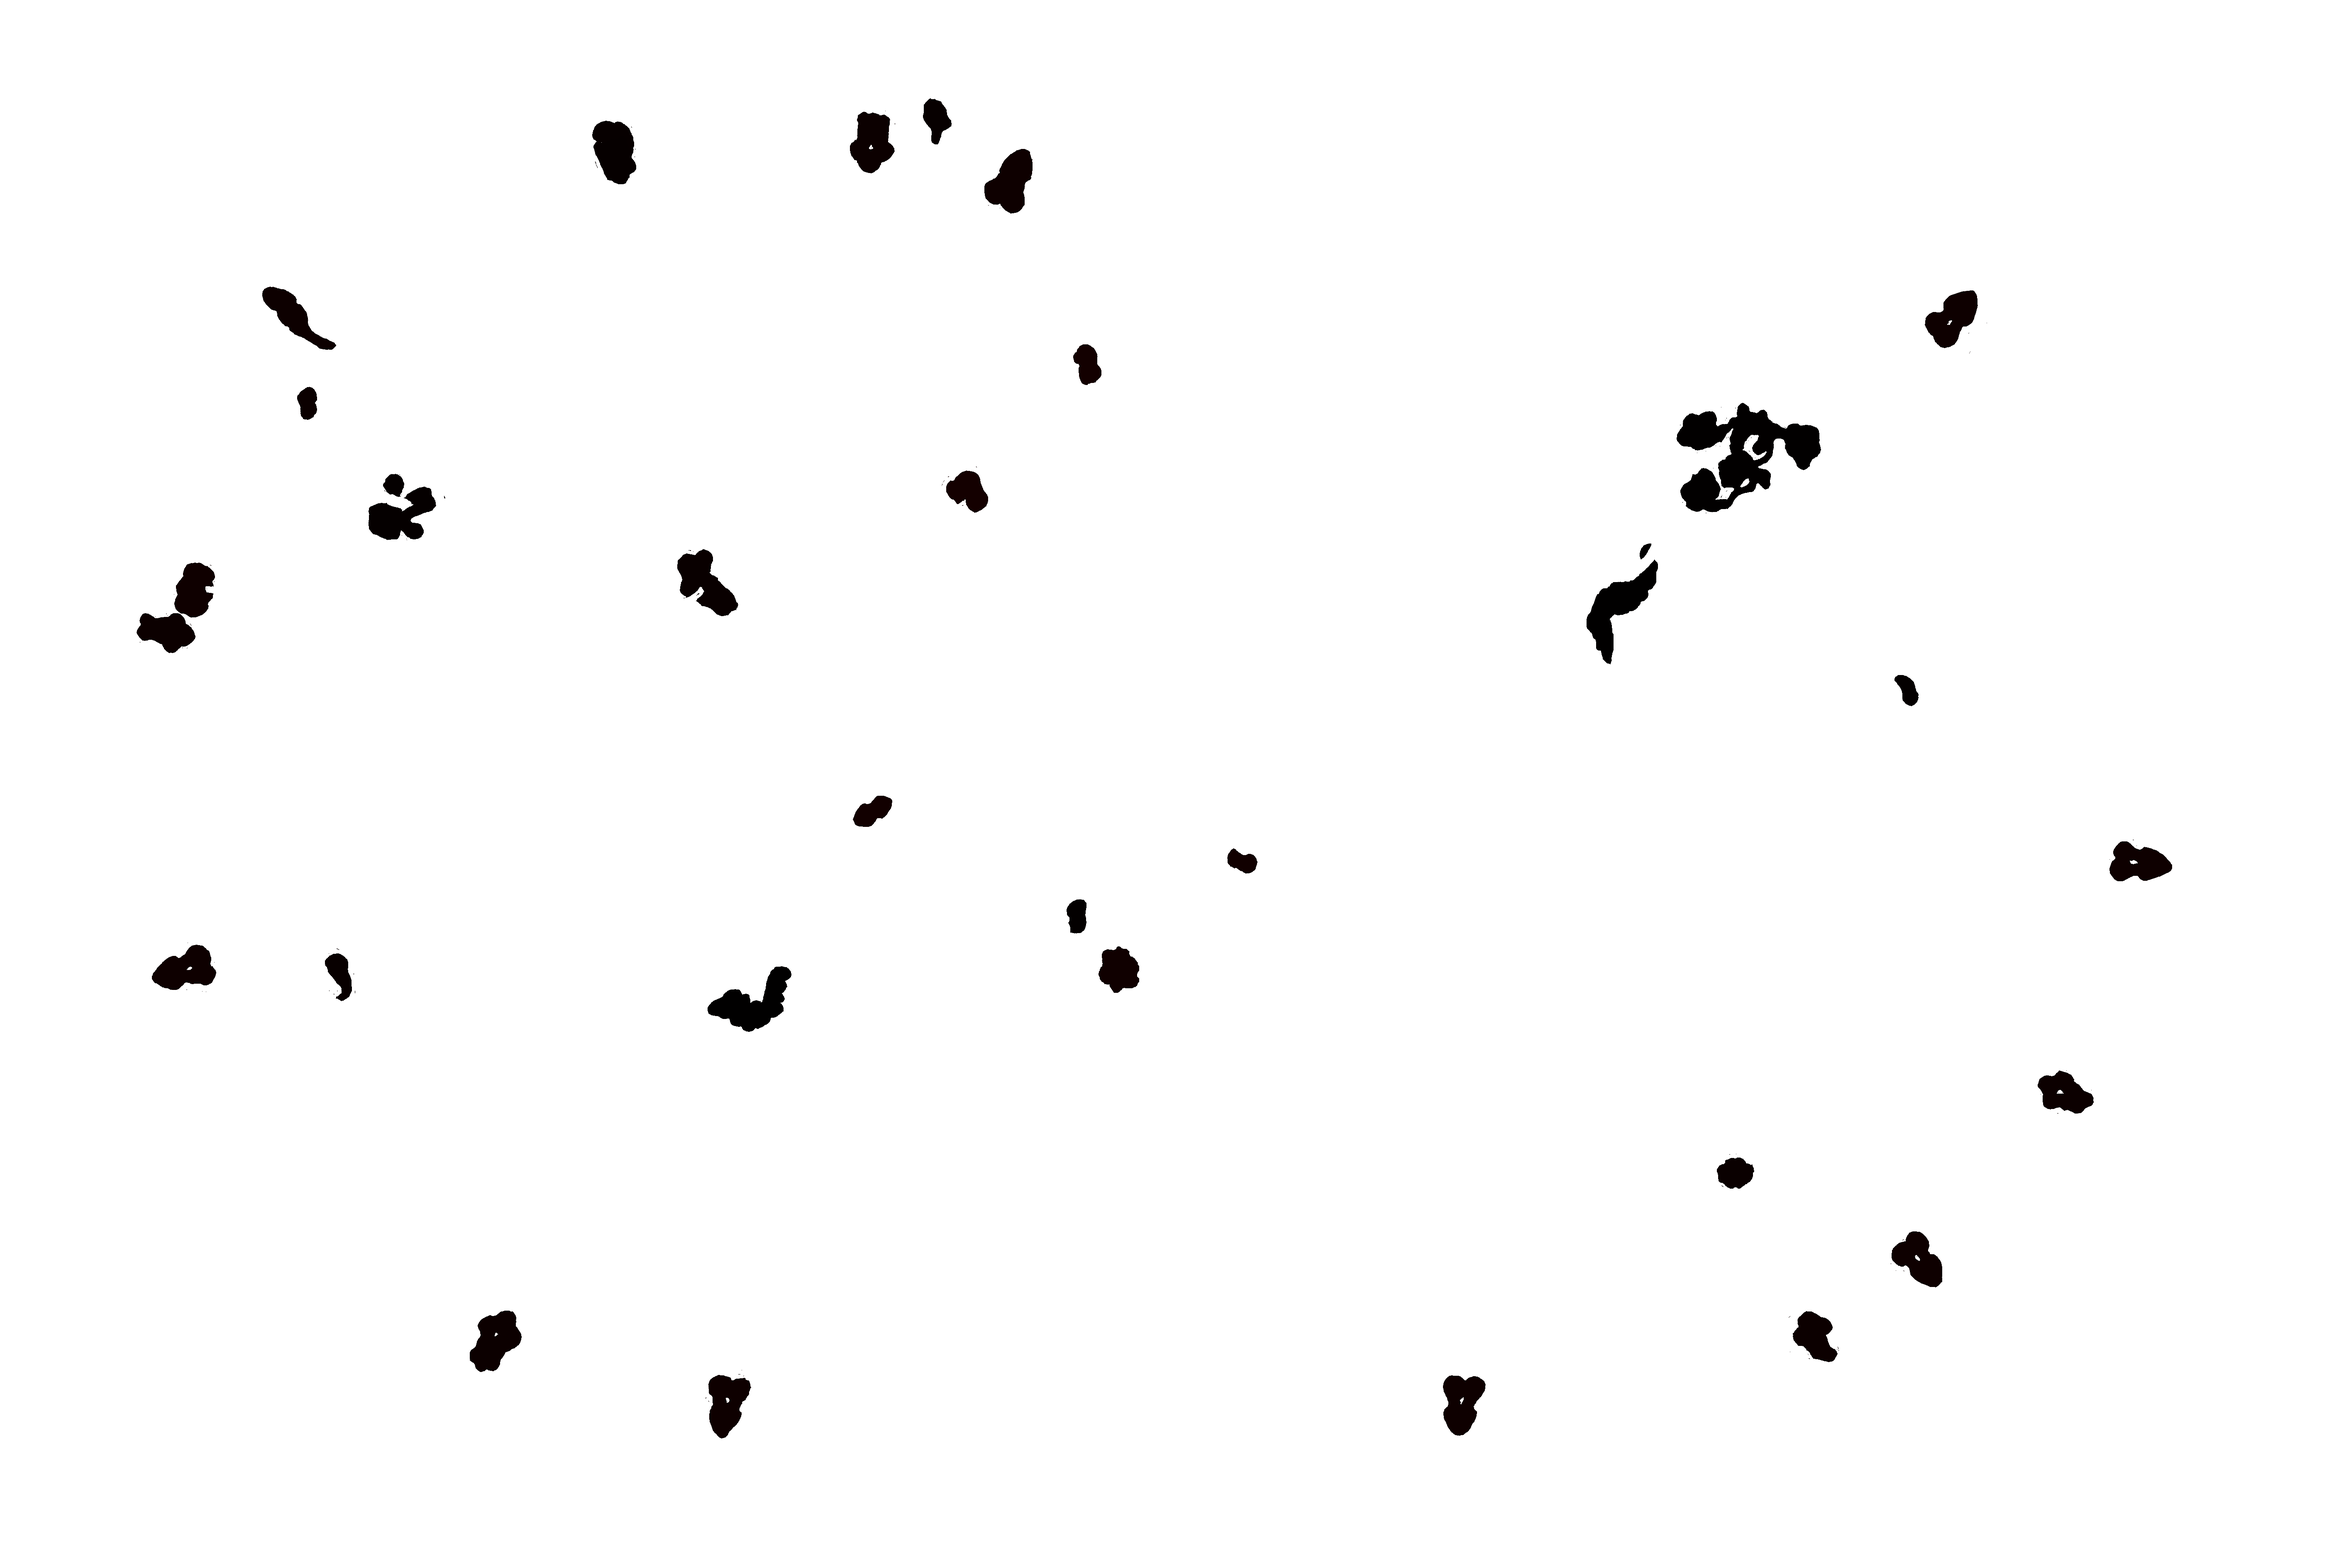
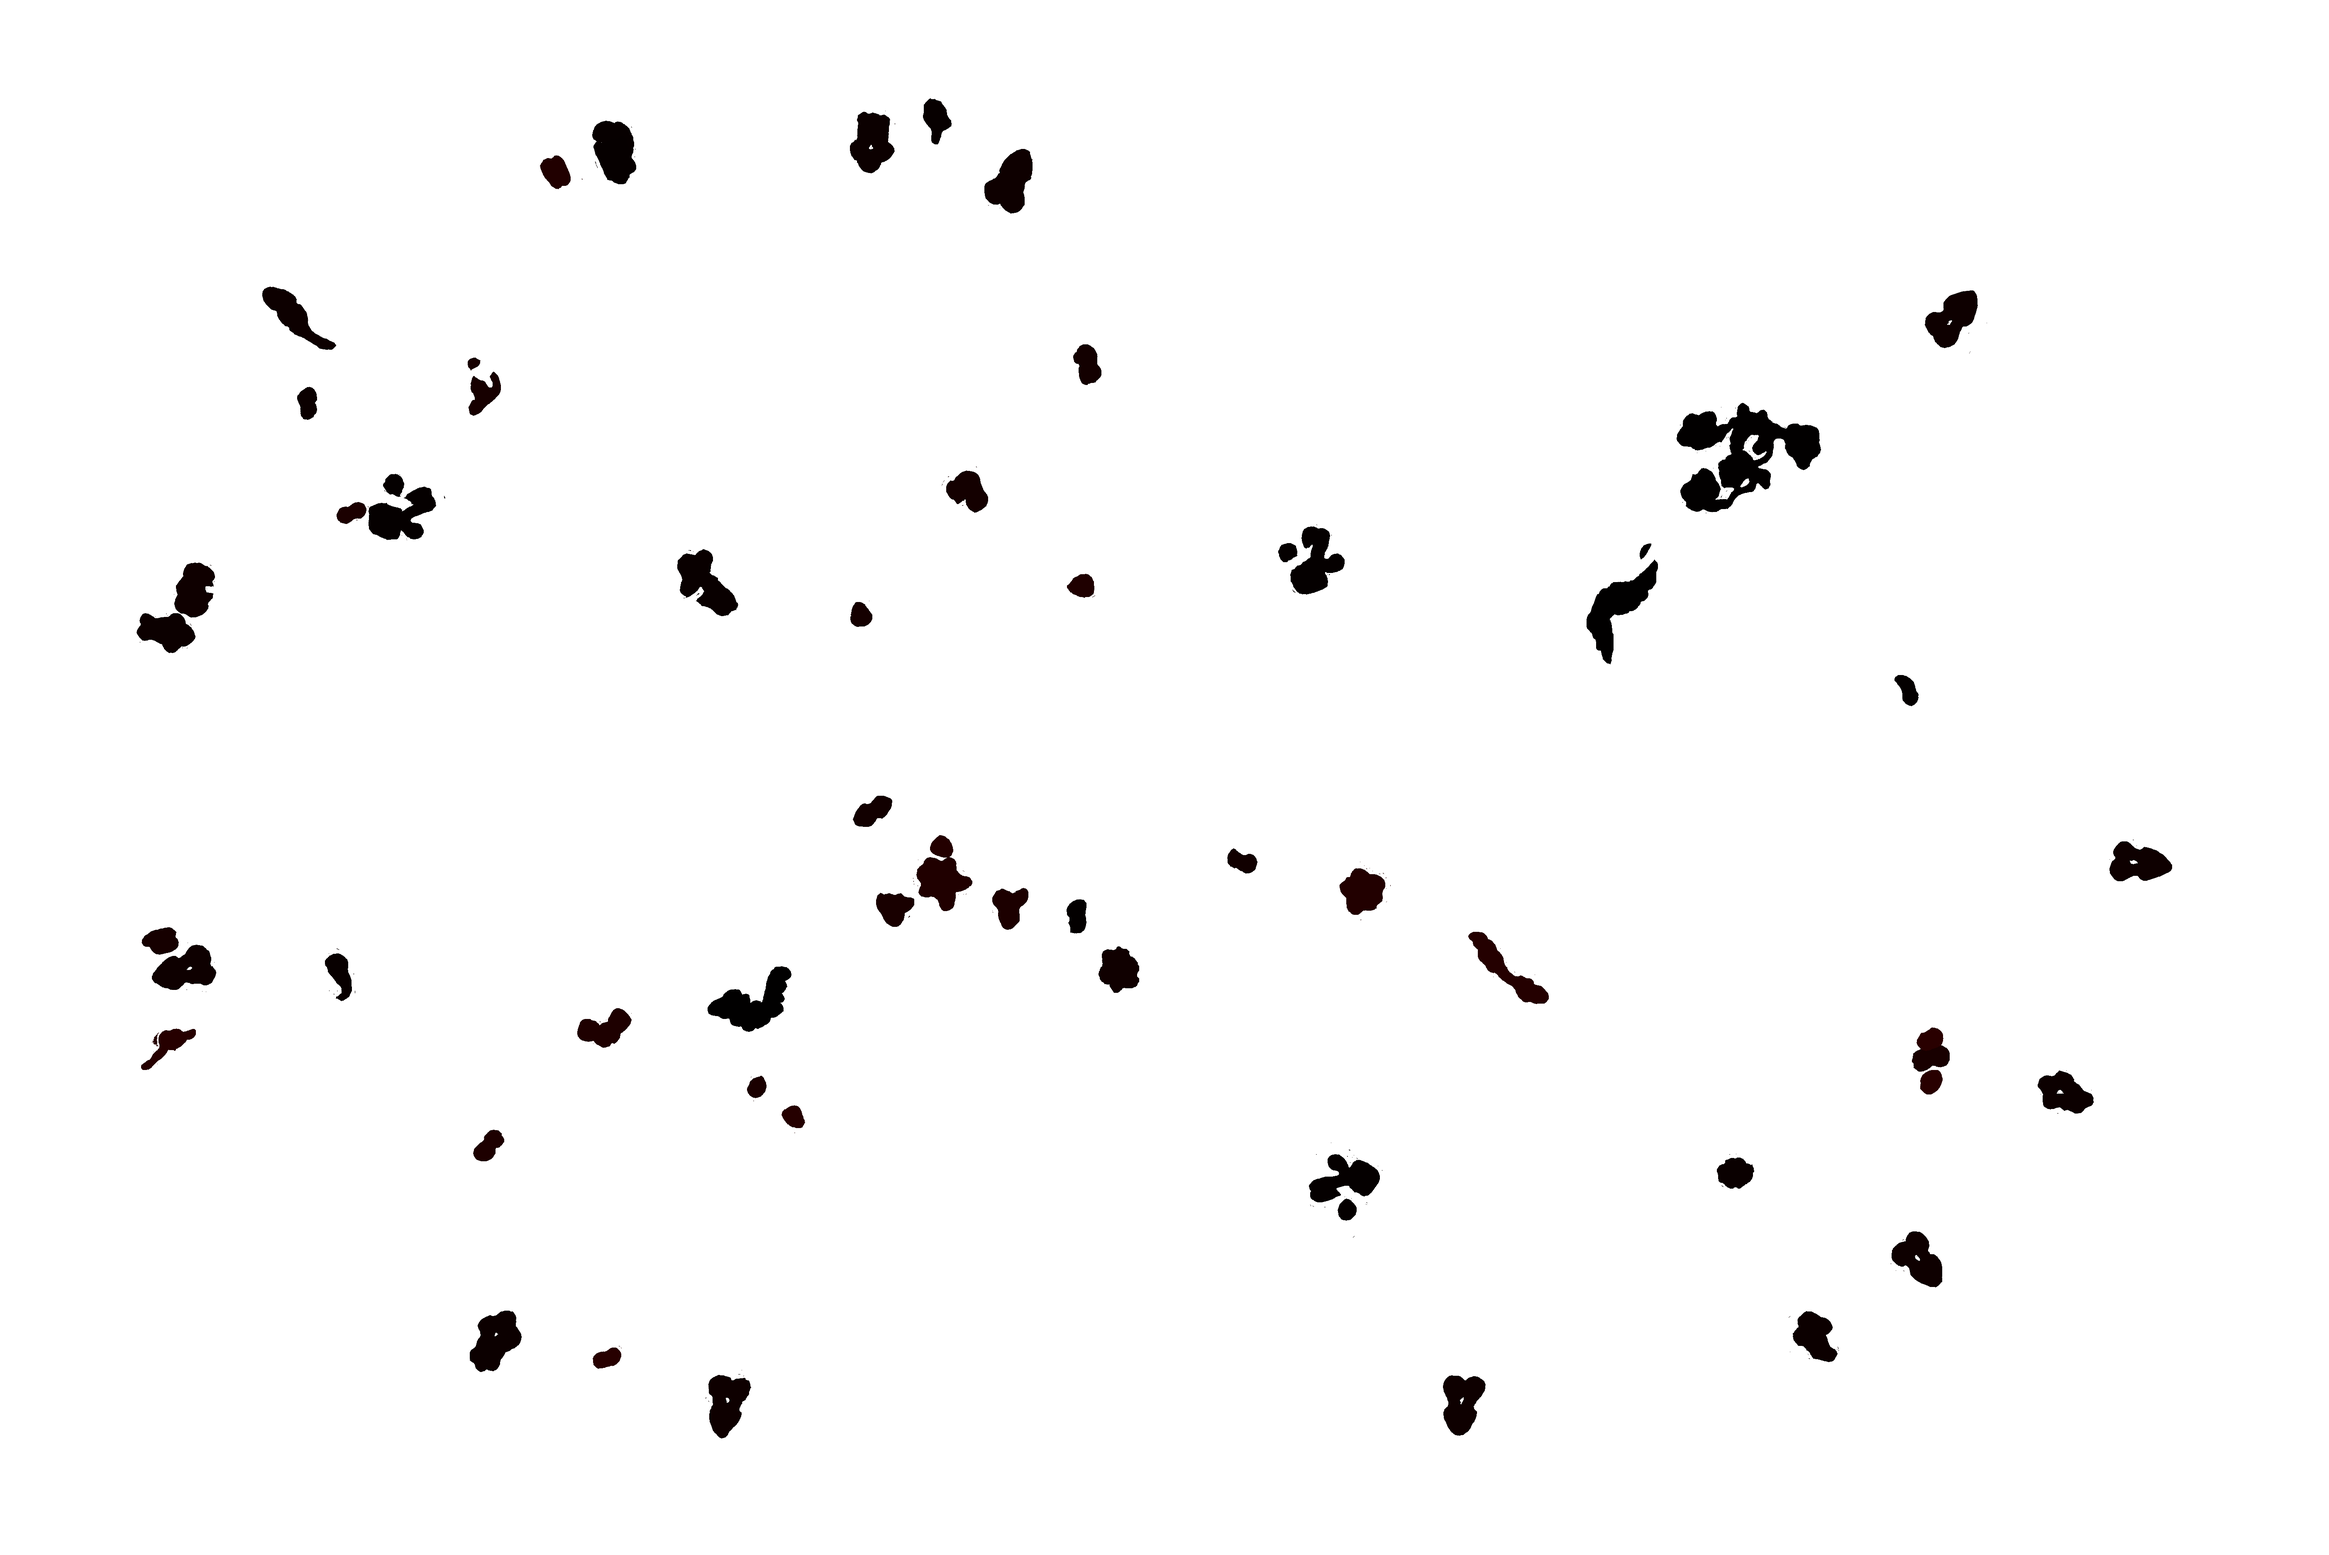
Add 21 products (0054-0363) and redraw DNA Gyrase cutout
Covers AhpC, SerRS, DusB, LysRS, TrxA, AsnRS, the TsaBCDE and
MnmE/RlmFO complexes, SecA, YycJ, Exodeoxyribonuclease VII, NusB,
Deoxyribonuclease IV, RsmD, RimM, and several uncharacterized
proteins/hydrolases, plus a few smaller uncharacterized entries.
Regenerates assets/id-map.png to match.

diff --git a/data/products.js b/data/products.js
@@ -308,5 +308,283 @@ const PRODUCTS = [
     links: [
       { label: "SynWiki", url: "https://synwiki.uni-goettingen.de/" }
     ]
+  },
+  {
+    id: "0054",
+    displayName: "AhpC",
+    fullName: "Uncharacterized peroxiredoxin",
+    cutout: "cutouts/3A-054.png",
+    loci: [
+      { locusTag: "JCVISYN3A_0054", gene: "ahpC", start: 45293, end: 45742, strand: "-" }
+    ],
+    description: "",
+    links: [
+      { label: "SynWiki", url: "https://synwiki.uni-goettingen.de/" }
+    ]
+  },
+  {
+    id: "0060",
+    displayName: "Uncharacterized Protein",
+    fullName: "Uncharacterized protein",
+    cutout: "cutouts/3A-060.png",
+    loci: [
+      { locusTag: "JCVISYN3A_0060", gene: null, start: 46274, end: 47098, strand: "+" }
+    ],
+    description: "",
+    links: [
+      { label: "SynWiki", url: "https://synwiki.uni-goettingen.de/" }
+    ]
+  },
+  {
+    id: "0061",
+    displayName: "SerRS",
+    fullName: "Serine--tRNA ligase",
+    cutout: "cutouts/3A-061.png",
+    loci: [
+      { locusTag: "JCVISYN3A_0061", gene: "serRS", start: 47181, end: 48449, strand: "+" }
+    ],
+    description: "",
+    links: [
+      { label: "SynWiki", url: "https://synwiki.uni-goettingen.de/" }
+    ]
+  },
+  {
+    id: "0063",
+    displayName: "DusB",
+    fullName: "Uncharacterized tRNA dihydrouridine synthase",
+    cutout: "cutouts/3A-063.png",
+    loci: [
+      { locusTag: "JCVISYN3A_0063", gene: "dusB", start: 48559, end: 49533, strand: "+" }
+    ],
+    description: "",
+    links: [
+      { label: "SynWiki", url: "https://synwiki.uni-goettingen.de/" }
+    ]
+  },
+  {
+    id: "0064",
+    displayName: "LysRS",
+    fullName: "Lysine--tRNA ligase",
+    cutout: "cutouts/3A-064.png",
+    loci: [
+      { locusTag: "JCVISYN3A_0064", gene: "lysRS", start: 49536, end: 51038, strand: "+" }
+    ],
+    description: "",
+    links: [
+      { label: "SynWiki", url: "https://synwiki.uni-goettingen.de/" }
+    ]
+  },
+  {
+    id: "0065",
+    displayName: "TrxA",
+    fullName: "Thioredoxin",
+    cutout: "cutouts/3A-065.png",
+    loci: [
+      { locusTag: "JCVISYN3A_0065", gene: "trxA", start: 51128, end: 51436, strand: "-" }
+    ],
+    description: "",
+    links: [
+      { label: "SynWiki", url: "https://synwiki.uni-goettingen.de/" }
+    ]
+  },
+  {
+    id: "0066",
+    displayName: "Low-Specificity Hydrolase",
+    fullName: "Low specificity hydrolase",
+    cutout: "cutouts/3A-066.png",
+    loci: [
+      { locusTag: "JCVISYN3A_0066", gene: null, start: 51447, end: 52289, strand: "-" }
+    ],
+    description: "",
+    links: [
+      { label: "SynWiki", url: "https://synwiki.uni-goettingen.de/" }
+    ]
+  },
+  {
+    id: "0076",
+    displayName: "AsnRS",
+    fullName: "Asparagine--tRNA ligase",
+    cutout: "cutouts/3A-076.png",
+    loci: [
+      { locusTag: "JCVISYN3A_0076", gene: "asnRS", start: 58156, end: 59520, strand: "-" }
+    ],
+    description: "",
+    links: [
+      { label: "SynWiki", url: "https://synwiki.uni-goettingen.de/" }
+    ]
+  },
+  {
+    id: "0077",
+    displayName: "Uncharacterized Hydrolase",
+    fullName: "Uncharacterized hydrolase",
+    cutout: "cutouts/3A-077.png",
+    loci: [
+      { locusTag: "JCVISYN3A_0077", gene: null, start: 59529, end: 60368, strand: "-" }
+    ],
+    description: "",
+    links: [
+      { label: "SynWiki", url: "https://synwiki.uni-goettingen.de/" }
+    ]
+  },
+  {
+    id: "0079",
+    displayName: "TsaBCDE Complex",
+    fullName: "tRNA N6-adenosine(37)-N6-threonylcarbamoyltransferase complex",
+    cutout: "cutouts/3A-079.png",
+    loci: [
+      { locusTag: "JCVISYN3A_0079", gene: "tsaD", start: 60404, end: 61360, strand: "-" },
+      { locusTag: "JCVISYN3A_0144", gene: "tsaC", start: 96001, end: 96501, strand: "+" },
+      { locusTag: "JCVISYN3A_0270", gene: "tsaE; yjeE", start: 164055, end: 164471, strand: "+" },
+      { locusTag: "JCVISYN3A_0271", gene: "tsaB; yeaZ", start: 164473, end: 165036, strand: "+" }
+    ],
+    description: "",
+    links: [
+      { label: "SynWiki", url: "https://synwiki.uni-goettingen.de/" }
+    ]
+  },
+  {
+    id: "0080",
+    displayName: "Uncharacterized Protein",
+    fullName: "Uncharacterized protein",
+    cutout: "cutouts/3A-080.png",
+    loci: [
+      { locusTag: "JCVISYN3A_0080", gene: null, start: 61455, end: 61676, strand: "-" }
+    ],
+    description: "",
+    links: [
+      { label: "SynWiki", url: "https://synwiki.uni-goettingen.de/" }
+    ]
+  },
+  {
+    id: "0081",
+    displayName: "MnmE / RlmFO",
+    fullName: "tRNA uridine(34) 5-carboxymethylaminomethyl modification enzyme",
+    cutout: "cutouts/3A-081.png",
+    loci: [
+      { locusTag: "JCVISYN3A_0081", gene: "mnmE; trmE", start: 61876, end: 63234, strand: "+" },
+      { locusTag: "JCVISYN3A_0434", gene: "rlmFO", start: 284461, end: 285777, strand: "+" }
+    ],
+    description: "",
+    links: [
+      { label: "SynWiki", url: "https://synwiki.uni-goettingen.de/" }
+    ]
+  },
+  {
+    id: "0094",
+    displayName: "Uncharacterized Protein",
+    fullName: "Uncharacterized protein",
+    cutout: "cutouts/3A-094.png",
+    loci: [
+      { locusTag: "JCVISYN3A_0094", gene: null, start: 63664, end: 64380, strand: "-" }
+    ],
+    description: "",
+    links: [
+      { label: "SynWiki", url: "https://synwiki.uni-goettingen.de/" }
+    ]
+  },
+  {
+    id: "0095",
+    displayName: "SecA",
+    fullName: "Preprotein translocase subunit A",
+    cutout: "cutouts/3A-095.png",
+    loci: [
+      { locusTag: "JCVISYN3A_0095", gene: "secA", start: 64495, end: 67329, strand: "-" }
+    ],
+    description: "",
+    links: [
+      { label: "SynWiki", url: "https://synwiki.uni-goettingen.de/" }
+    ]
+  },
+  {
+    id: "0097",
+    displayName: "YycJ",
+    fullName: "Uncharacterized 5'-3' exonuclease",
+    cutout: "cutouts/3A-097.png",
+    loci: [
+      { locusTag: "JCVISYN3A_0097", gene: "yycJ", start: 67494, end: 68405, strand: "+" }
+    ],
+    description: "",
+    links: [
+      { label: "SynWiki", url: "https://synwiki.uni-goettingen.de/" }
+    ]
+  },
+  {
+    id: "0105",
+    displayName: "Exodeoxyribonuclease VII",
+    fullName: "Exodeoxyribonuclease VII (subunits XseB + XseA)",
+    cutout: "cutouts/3A-105.png",
+    loci: [
+      { locusTag: "JCVISYN3A_0105", gene: "xseB", start: 68809, end: 69024, strand: "-" },
+      { locusTag: "JCVISYN3A_0106", gene: "xseA", start: 69014, end: 70423, strand: "-" }
+    ],
+    description: "",
+    links: [
+      { label: "SynWiki", url: "https://synwiki.uni-goettingen.de/" }
+    ]
+  },
+  {
+    id: "0107",
+    displayName: "NusB",
+    fullName: "Transcription antitermination factor",
+    cutout: "cutouts/3A-107.png",
+    loci: [
+      { locusTag: "JCVISYN3A_0107", gene: "nusB", start: 70425, end: 70823, strand: "-" }
+    ],
+    description: "",
+    links: [
+      { label: "SynWiki", url: "https://synwiki.uni-goettingen.de/" }
+    ]
+  },
+  {
+    id: "0108",
+    displayName: "Uncharacterized Lipoprotein",
+    fullName: "Uncharacterized lipoprotein",
+    cutout: "cutouts/3A-108.png",
+    loci: [
+      { locusTag: "JCVISYN3A_0108", gene: null, start: 70835, end: 71947, strand: "-" }
+    ],
+    description: "",
+    links: [
+      { label: "SynWiki", url: "https://synwiki.uni-goettingen.de/" }
+    ]
+  },
+  {
+    id: "0109",
+    displayName: "Deoxyribonuclease IV",
+    fullName: "Deoxyribonuclease IV",
+    cutout: "cutouts/3A-109.png",
+    loci: [
+      { locusTag: "JCVISYN3A_0109", gene: null, start: 71973, end: 72842, strand: "-" }
+    ],
+    description: "",
+    links: [
+      { label: "SynWiki", url: "https://synwiki.uni-goettingen.de/" }
+    ]
+  },
+  {
+    id: "0202",
+    displayName: "RsmD",
+    fullName: "16S rRNA (guanine(966)-N(2))-methyltransferase",
+    cutout: "cutouts/3A-202.png",
+    loci: [
+      { locusTag: "JCVISYN3A_0202", gene: "rsmD", start: 126259, end: 126816, strand: "+" }
+    ],
+    description: "",
+    links: [
+      { label: "SynWiki", url: "https://synwiki.uni-goettingen.de/" }
+    ]
+  },
+  {
+    id: "0363",
+    displayName: "RimM",
+    fullName: "16S rRNA processing protein",
+    cutout: "cutouts/3A-363.png",
+    loci: [
+      { locusTag: "JCVISYN3A_0363", gene: "rimM", start: 214490, end: 214984, strand: "+" }
+    ],
+    description: "",
+    links: [
+      { label: "SynWiki", url: "https://synwiki.uni-goettingen.de/" }
+    ]
   }
 ];
